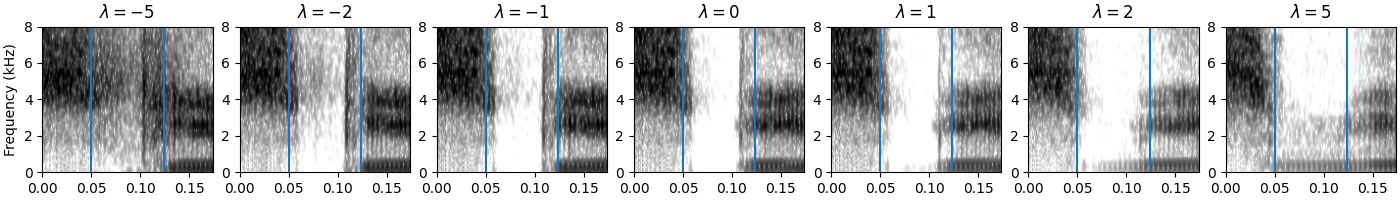
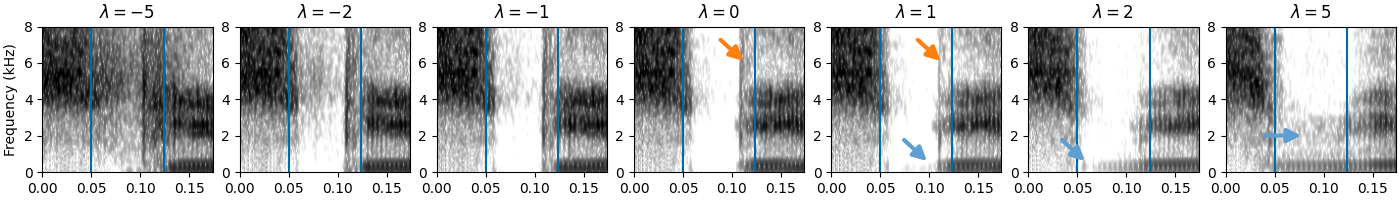
add helpful arrows in images

diff --git a/plot_synth.py b/plot_synth.py
@@ -7,6 +7,7 @@ import scipy.signal
 import scipy.misc
 from pathlib import Path
 import soundfile as sf
+plt.style.use("tableau-colorblind10")
 
 from analyze_synth import ModifyPhone, filter_phones, separate_phones, get_phonological_vector
 
@@ -129,13 +130,24 @@ class SpecPlotter(object):
         return
 
 
+def _get_arrow_xy(xy, direction):
+    dx, dy = {
+        "<": (+0.05, -0.2),
+        ">": (-0.05, -0.2),
+        "^": (0, 2),
+        "v": (-0.002, 2.5),
+        "`": (-0.035, 1.4),
+    }[direction]
+    x, y = xy
+    return (x + dx, y + dy)
+
 
 if __name__ == "__main__":
     df = pd.read_pickle("feats/timit-wavlm-large-24-featslice.pkl")
     df_train = df[df.split == "train"]
     df_test = df[df.split == "test"]
 
-    mp = ModifyPhone(ssl_model="microsoft/wavlm-large", synth_model="juice500/vocos-wavlm-libritts", device="cuda:0")
+    mp = ModifyPhone(model="microsoft/wavlm-large", synth_model="juice500/vocos-wavlm-libritts", device="cuda:0")
     phones = filter_phones(df_test)
 
     settings = [
@@ -144,33 +156,69 @@ if __name__ == "__main__":
             "fixed_features": [("cons", -1)],
             "filename": "TIMIT/TEST/DR1/FAKS0/SA1.WAV",
             "phone": "i",
+            "arrows": [[], [], [], [], [], [], [], []],
         },
         {
             "feature": "round",
             "fixed_features": [("cons", -1)],
             "filename": "TIMIT/TEST/DR1/FAKS0/SA1.WAV",
             "phone": "i",
+            "arrows": [
+                [],
+                [],
+                [],
+                [{"c": "C1", "xy": (0.12, 2.344), "d": "<"}, {"c": "C4", "xy": (0.12, 2.864), "d": "<"}],
+                [{"c": "C1", "xy": (0.12, 2.284), "d": "<"}, {"c": "C4", "xy": (0.12, 2.688), "d": "<"}],
+                [{"c": "C1", "xy": (0.12, 2.006), "d": "<"}, {"c": "C4", "xy": (0.12, 2.322), "d": "<"}],
+                [{"c": "C1", "xy": (0.12, 1.145), "d": "<"}, {"c": "C4", "xy": (0.12, 2.136), "d": "<"}],
+            ]
         },
         {
             "feature": "voi",
             "fixed_features": [("cons", +1)],
             "filename": "TIMIT/TEST/DR1/FAKS0/SI1573.WAV",
             "phone": "b",
+            "arrows": [
+                [{"c": "C1", "xy": (0.14, 0.38), "d": "`"}],
+                [{"c": "C1", "xy": (0.125,0.38), "d": "`"}],
+                [{"c": "C1", "xy": (0.125,0.38), "d": "`"}],
+                [{"c": "C1", "xy": (0.11, 0.38), "d": "`"}],
+                [{"c": "C1", "xy": (0.10, 0.38), "d": "`"}],
+                [{"c": "C1", "xy": (0.06, 0.38), "d": "`"}],
+                [{"c": "C1", "xy": (0.055, 0.38), "d": "`"}],
+            ],
         },
         {
             "feature": "strid",
             "fixed_features": [("cons", +1)],
             "filename": "TIMIT/TEST/DR1/FAKS0/SI1573.WAV",
             "phone": "b",
+            "arrows": [
+                [],
+                [{"c": "C1", "xy": (0.114, 6), "d": "`"}, ],
+                [{"c": "C1", "xy": (0.114, 6), "d": "`"}, ],
+                [{"c": "C1", "xy": (0.114, 6), "d": "`"}, ],
+                [{"c": "C4", "xy": (0.08, 6), "d": ">"}, ],
+                [{"c": "C4", "xy": (0.08, 6), "d": ">"}, ],
+                [{"c": "C4", "xy": (0.08, 6), "d": ">"}, ],
+            ],
         },
         {
             "feature": "nas",
             "fixed_features": [("cons", +1)],
             "filename": "TIMIT/TEST/DR1/FAKS0/SI1573.WAV",
             "phone": "b",
+            "arrows": [
+                [],
+                [],
+                [],
+                [{"c": "C1", "xy": (0.114, 6), "d": "`"}, ],
+                [{"c": "C1", "xy": (0.114, 6), "d": "`"}, {"c": "C4", "xy": (0.1, 0.5), "d": "`"}, ],
+                [{"c": "C4", "xy": (0.06, 0.5), "d": "`"}, ],
+                [{"c": "C4", "xy": (0.08, 2), "d": ">"}, ],
+            ],
         },
     ]
-
 
     Path("plots/main").mkdir(parents=True, exist_ok=True)
     Path("examples").mkdir(parents=True, exist_ok=True)
@@ -183,7 +231,7 @@ if __name__ == "__main__":
         audio = mp.load_audio(row["audio_path"])
         fig, axes = plt.subplots(1, 7, figsize=(14, 2), constrained_layout=True)
 
-        for i, weight in enumerate((-5, -2, -1, 0, 1, 2, 5)):
+        for i, (weight, arrows) in enumerate(zip((-5, -2, -1, 0, 1, 2, 5), setting["arrows"])):
             modified_audio = mp.modify(audio, vec * weight, row["min"], row["max"])
             signal = modified_audio[int(row["min"]*16000 - 800):int(row["max"]*16000 + 800)]
             sf.write(f"examples/synth-{setting['feature']}-{setting['phone']}-{weight}.wav", signal, 16000)
@@ -191,10 +239,17 @@ if __name__ == "__main__":
             _, spec, _, _, _ = SpecPlotter().compute_spectrogram(signal)
             extent = [0, signal.shape[0] / 16000, 0, 16000 / 2000]
             axes[i].imshow(spec, cmap='gist_gray_r', extent=extent, aspect='auto')
-            axes[i].axvline(800/16000)
-            axes[i].axvline(800/16000 + (row["max"] - row["min"]))
+            axes[i].axvline(800/16000, c="C0")
+            axes[i].axvline(800/16000 + (row["max"] - row["min"]), c="C0")
             axes[i].set_title(f"$\\lambda={weight}$")
             if i == 0:
                 axes[i].set_ylabel("Frequency (kHz)")
+
+            for arrow in arrows:
+                axes[i].annotate(
+                    ' ', color=arrow["c"], xy=arrow["xy"], xytext=_get_arrow_xy(arrow["xy"], arrow["d"]),
+                    arrowprops=dict(arrowstyle='-|>', color=arrow["c"], lw=3, mutation_scale=20),
+                )
+
         plt.savefig(f"plots/main/synth-{setting['feature']}-{setting['phone']}.pdf")
         plt.savefig(f"examples/synth-{setting['feature']}-{setting['phone']}.png")

diff --git a/plot_everything.py b/plot_everything.py
@@ -347,30 +347,35 @@ if __name__ == "__main__":
         feature_count_sets = _get_feature_count_sets(quadruples)
         feature_sets_cons, feature_sets_vowel = _get_consonant_vowel_feature_sets(feature_sets)
 
-        # _plot_individual_quadruplets(dataset)
-        # _plot_success_rates(dataset, feature_sets, "panphon")
-        # _plot_success_rates(dataset, feature_count_sets, "pfer")
+        _plot_individual_quadruplets(dataset)
+        _plot_success_rates(dataset, feature_sets, "panphon")
+        _plot_success_rates(dataset, feature_count_sets, "pfer")
 
-        # _plot_consonant_vowel_comparison(dataset, feature_sets, feature_sets_cons, feature_sets_vowel)
+        _plot_consonant_vowel_comparison(dataset, feature_sets, feature_sets_cons, feature_sets_vowel)
         _plot_cossim_comparison(dataset, feature_sets)
-        # _plot_synth_scatter(
-        #     dataset, "wavlm",
-        #     targets=["vowel-hi", "vowel-lo", "vowel-back", "vowel-round", "consonant-nas", "consonant-son", "consonant-strid", "consonant-voi"],
-        #     metrics=["F1", "F1", "F2", "F2", "F1BW", "ZCR", "COG", "COG"],
-        # )
+        _plot_synth_scatter(
+            dataset, "wavlm",
+            targets=["vowel-hi", "vowel-lo", "vowel-back", "vowel-round", "consonant-nas", "consonant-son", "consonant-strid", "consonant-voi"],
+            metrics=["F1", "F1", "F2", "F2", "F1BW", "ZCR", "COG", "COG"],
+        )
+        _plot_synth_scatter(
+            dataset, "mfcc",
+            targets=["vowel-hi", "vowel-lo", "vowel-back", "vowel-round", "consonant-nas", "consonant-son", "consonant-strid", "consonant-voi"],
+            metrics=["F1", "F1", "F2", "F2", "F1BW", "ZCR", "COG", "COG"],
+        )
 
-        # if dataset == "timit":
-        #     _plot_model_comparison(dataset, feature_sets, [
-        #         "w2v2-large", "hubert-large", "wavlm-large",
-        #     ], "featslice")
-        #     _plot_model_comparison(dataset, feature_sets, [
-        #         "w2v2-large", "hubert-large", "wavlm-large", 
-        #     ], "audioslice")
-        #     _plot_model_comparison(dataset, feature_sets, [
-        #         "xlsr-53", "w2v2-phoneme", "w2v2-multipa", 
-        #     ], "featslice", name="-PR", print_sliced=False)
-        # else:
-        #     _plot_model_comparison(dataset, feature_sets, [
-        #         "w2v2-large", "hubert-large", "wavlm-large",
-        #     ], "featslice", print_sliced=False)
+        if dataset == "timit":
+            _plot_model_comparison(dataset, feature_sets, [
+                "w2v2-large", "hubert-large", "wavlm-large",
+            ], "featslice")
+            _plot_model_comparison(dataset, feature_sets, [
+                "w2v2-large", "hubert-large", "wavlm-large",
+            ], "audioslice")
+            _plot_model_comparison(dataset, feature_sets, [
+                "xlsr-53", "w2v2-phoneme", "w2v2-multipa",
+            ], "featslice", name="-PR", print_sliced=False)
+        else:
+            _plot_model_comparison(dataset, feature_sets, [
+                "w2v2-large", "hubert-large", "wavlm-large",
+            ], "featslice", print_sliced=False)
 
